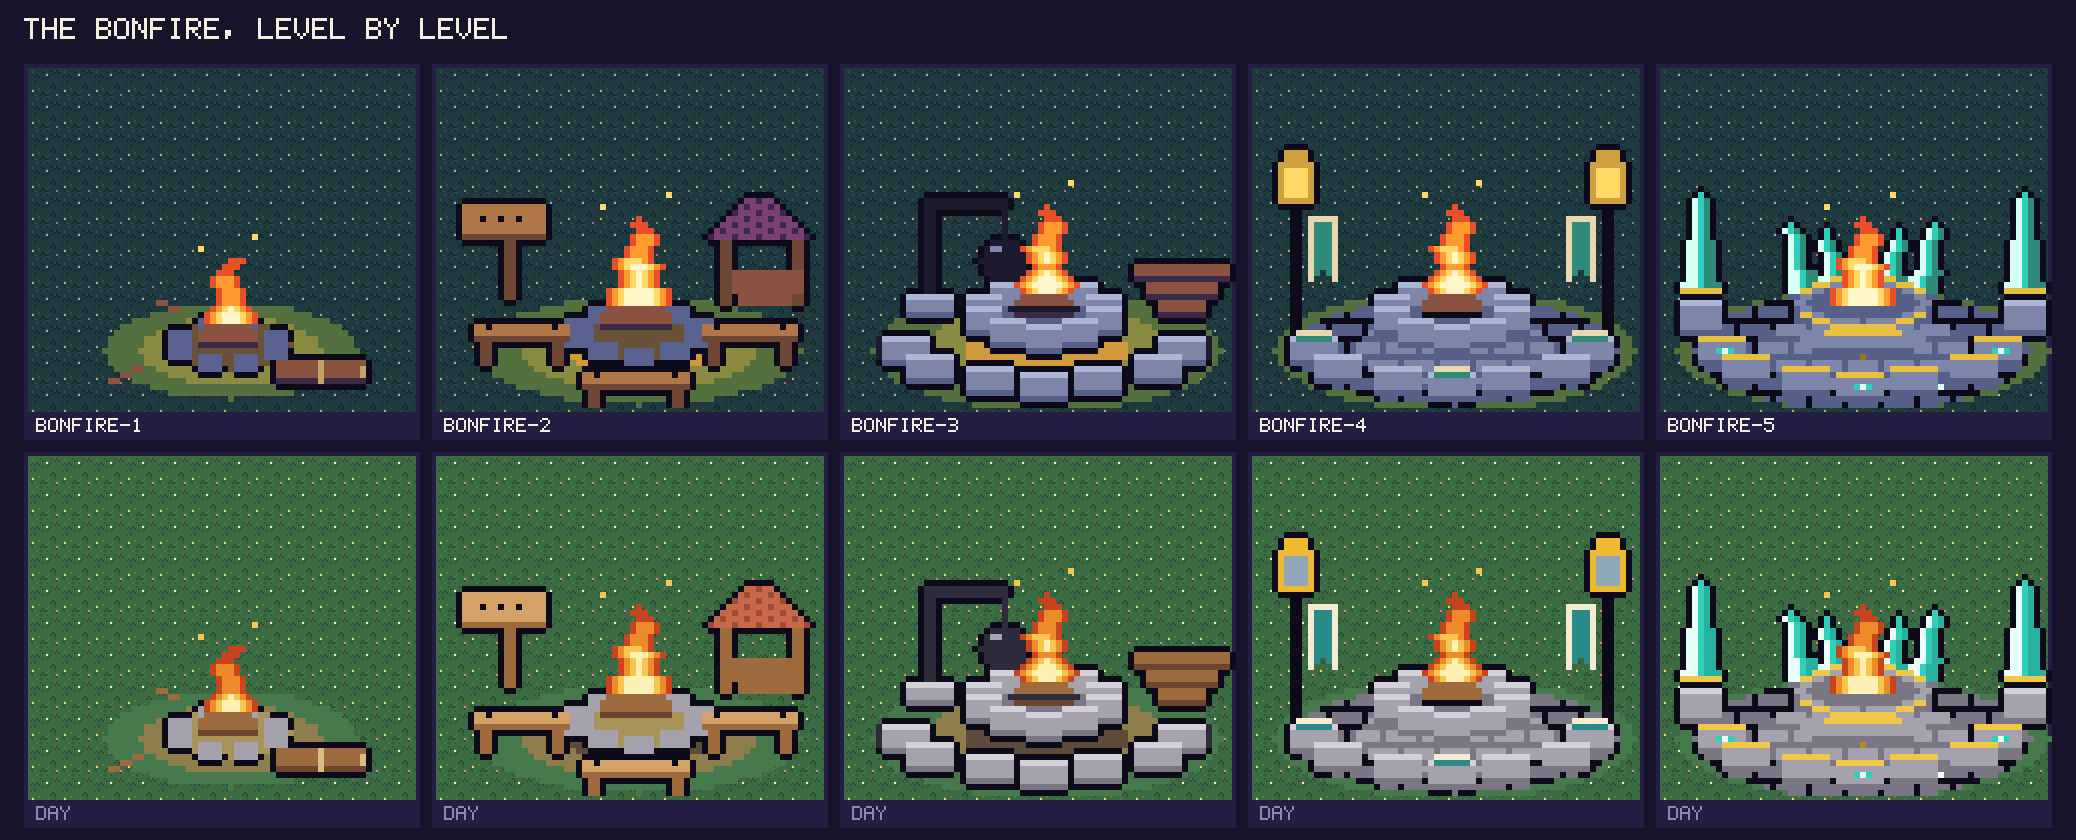
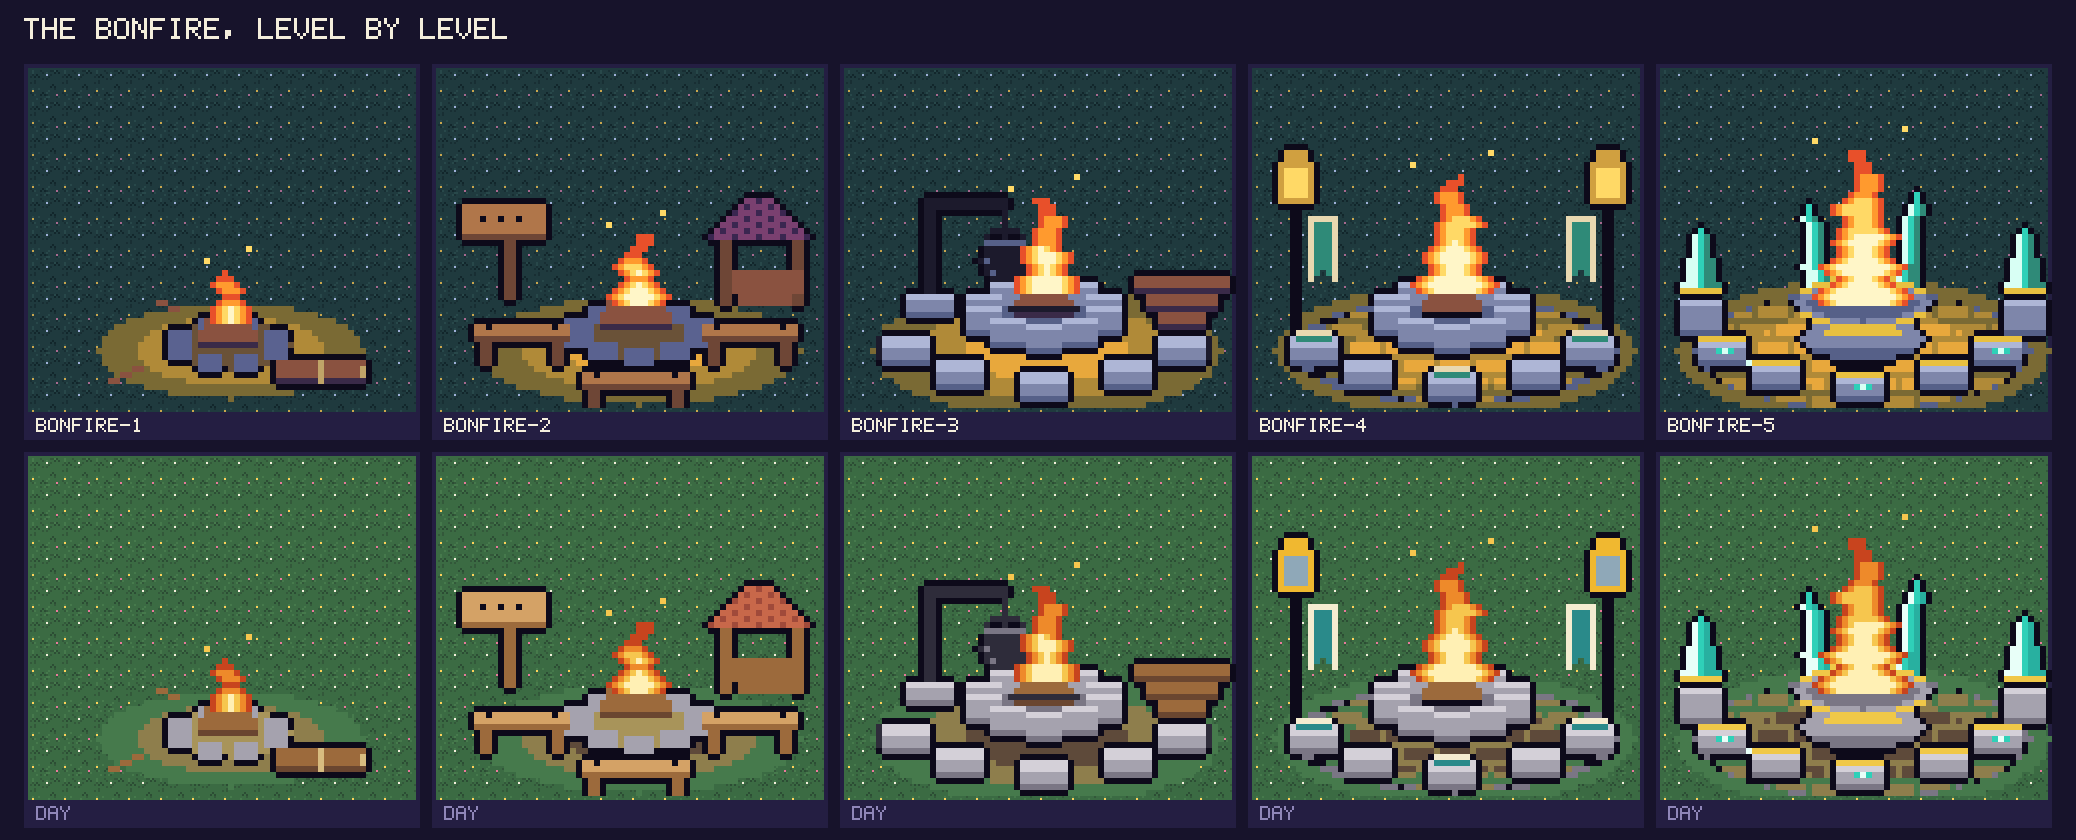
Bonfire levels: warm firelight rings, fire grows by level, separate slab seats
Claude-Session: https://claude.ai/code/session_01TqJ8tUAM4Muj4eb7wE4uc8

diff --git a/apps/activity/src/sprites/concepts/valley-levels-bonfire.ts b/apps/activity/src/sprites/concepts/valley-levels-bonfire.ts
@@ -22,7 +22,7 @@ type Colour = (x: number, y: number) => string;
 const GROUND = '.123';
 
 const GLOW = {
-  night: { '1': '#55703f', '2': '#8a8a40', '3': '#d09a3c' },
+  night: { '1': '#7a6a34', '2': '#b08a38', '3': '#e8a83c' },
   day: { '1': '#467a4c', '2': '#8e7e4c', '3': '#5e4a3a' },
 };
 const FIRE = {
@@ -156,7 +156,9 @@ function paving(g: Grid, cx: number, cy: number, rx: number, ry: number, lit: nu
       const off = Math.floor(y / 3) % 2 === 0 ? 0 : 3;
       const joint = y % 3 === 2 || (x + off) % 6 === 5;
       const near = ((x - cx) / lit) ** 2 + ((y - cy) / ((lit * ry) / rx)) ** 2 < 1;
-      if (near) return joint ? 'S' : 'T';
+      const hot = ((x - cx) / (lit * 0.7)) ** 2 + ((y - cy) / ((lit * 0.7 * ry) / rx)) ** 2 < 1;
+      if (hot) return joint ? '2' : '3';
+      if (near) return joint ? '1' : '2';
       return joint ? 'k' : 'S';
     },
     false,
@@ -173,14 +175,15 @@ function arcBench(
   top: (x: number, y: number) => string,
 ): void {
   const pts: Pt[] = [];
-  for (const deg of [20, 40, 70, 90, 110, 140, 160]) {
+  for (const deg of [160, 125, 90, 55, 20]) {
     const a = (deg * Math.PI) / 180;
     pts.push([Math.round(cx + rx * Math.cos(a)), Math.round(cy + ry * Math.sin(a))]);
   }
   pts.sort((a, b) => a[1] - b[1]);
+  // separate low slabs: a lit top, a darker front face, a shadowed foot (the ink outline is the shadow beneath)
   for (const [x, y] of pts) {
     paint(g, rectPts(x - 4, y - 2, 8, 5), (px, py) =>
-      py === y - 2 ? top(px, py) : py === y + 2 ? 'S' : 'T',
+      py === y - 2 ? top(px, py) : py === y - 1 ? 'L' : py === y + 2 ? 'S' : 'T',
     );
   }
 }
@@ -223,12 +226,12 @@ const none = { night: {}, day: {} };
 // ---- Level 1: Humble ----------------------------------------------------------------------------------------
 const L1 = build(
   (g) => {
-    glow(g, 32, 46, 21, 8);
+    glow(g, 32, 46, 22, 8);
     paint(g, ellPts(32, 45, 10, 4), 'e', false);
     const rock = (x: number, y: number): void => paint(g, rectPts(x - 2, y - 1, 4, 3), 't');
     ringItems(32, 45, 9, 3.5, 8, 'back', rock);
     fireLogs(g, 32, 41, 10);
-    flame(g, 32, 41, 11, 7);
+    flame(g, 32, 41, 9, 6);
     ringItems(32, 45, 9, 3.5, 8, 'front', rock);
     // the seat log, with a rope lashing and pale cut ends
     paint(g, rectPts(40, 48, 15, 4), (_x, y) => (y === 51 ? 'w' : 'v'));
@@ -279,7 +282,7 @@ const L2 = build(
     const rock = (x: number, y: number): void => paint(g, rectPts(x - 2, y - 1, 5, 3), 't');
     ringItems(32, 43, 11, 4, 10, 'back', rock);
     fireLogs(g, 32, 38, 12);
-    flame(g, 32, 38, 15, 9);
+    flame(g, 32, 38, 12, 8);
     ringItems(32, 43, 11, 4, 10, 'front', rock);
     // benches: left, right and front
     plankBench(g, 5, 42, 16);
@@ -305,12 +308,12 @@ function stonePit(g: Grid, fireTop: (g: Grid) => void): void {
 
 const L3 = build(
   (g) => {
-    glow(g, 32, 46, 29, 10);
+    glow(g, 32, 46, 29, 11);
     // firewood pile at the back right
     for (let r = 0; r < 3; r++) {
       for (let i = 0; i < 4 - r; i++) {
-        paint(g, rectPts(47 + i * 4 + r * 2, 32 + r * 3, 4, 3), (_x, y) =>
-          y === 34 + r * 3 ? 'w' : 'v',
+        paint(g, rectPts(47 + i * 4 + r * 2, 34 + r * 3, 4, 3), (_x, y) =>
+          y === 36 + r * 3 ? 'w' : 'v',
         );
       }
     }
@@ -320,11 +323,15 @@ const L3 = build(
     paint(g, rectPts(12, 21, 14, 2), 'i');
     for (let y = 23; y < 28; y++) put(g, 25, y, 'i');
     paint(g, ellPts(25, 31, 4, 3.5), 'i');
-    put(g, 23, 29, 'T');
-    put(g, 24, 29, 'T');
+    for (let x = 22; x <= 28; x++) put(g, x, 28, 'S');
+    put(g, 22, 31, 'S');
+    put(g, 23, 33, 'S');
+    // a bail handle over the pot
+    for (const x of [22, 28]) put(g, x, 27, 'i');
+    for (let x = 23; x <= 27; x++) put(g, x, 26, 'i');
     stonePit(g, (gg) => {
       fireLogs(gg, 32, 36, 10);
-      flame(gg, 32, 36, 15, 8);
+      flame(gg, 32, 36, 16, 9);
       // iron grate bar over the logs
       paint(gg, rectPts(26, 39, 12, 1), 'i', false);
     });
@@ -359,13 +366,13 @@ function lampPost(g: Grid, x: number): void {
 
 const L4 = build(
   (g) => {
-    glow(g, 32, 46, 30, 10);
-    paving(g, 32, 46, 27, 9, 17);
+    glow(g, 32, 46, 30, 11);
+    paving(g, 32, 46, 27, 9, 25);
     lampPost(g, 6);
     lampPost(g, 58);
     stonePit(g, (gg) => {
       fireLogs(gg, 32, 36, 10, 'k');
-      flame(gg, 32, 36, 15, 8);
+      flame(gg, 32, 36, 20, 11);
     });
     arcBench(g, 32, 43, 25, 9, () => 'L');
     // teal cushions with a cream edge on the three seats
@@ -403,13 +410,13 @@ function shard(g: Grid, x: number, by: number, h: number, w: number, lean: numbe
 function crystalPost(g: Grid, x: number): void {
   paint(g, rectPts(x - 3, 38, 7, 6), (_x, py) => (py === 38 ? 'L' : py === 43 ? 'S' : 'T'));
   paint(g, rectPts(x - 3, 36, 7, 1), 'g');
-  shard(g, x, 35, 16, 5, 0);
+  shard(g, x, 35, 10, 5, 0);
 }
 
 const L5 = build(
   (g) => {
-    glow(g, 32, 46, 31, 10);
-    paving(g, 32, 46, 28, 10, 18);
+    glow(g, 32, 46, 31, 12);
+    paving(g, 32, 46, 28, 10, 27);
     for (const [x, y] of [
       [12, 48],
       [20, 52],
@@ -422,10 +429,8 @@ const L5 = build(
     crystalPost(g, 5);
     crystalPost(g, 59);
     // the brazier: stone plinth, gold band, a bowl crowned with crystal
-    shard(g, 22, 36, 12, 4, -2);
-    shard(g, 42, 36, 12, 4, 2);
-    shard(g, 27, 34, 9, 3, -1);
-    shard(g, 37, 34, 9, 3, 1);
+    shard(g, 25, 36, 15, 4, -2);
+    shard(g, 39, 36, 17, 4, 2);
     paint(g, ellPts(32, 44, 10, 3.5), (_x, py) => (py > 45 ? 'S' : 'T'));
     paint(g, rectPts(26, 41, 13, 4), (_x, py) => (py === 41 ? 'L' : 'T'));
     paint(g, rectPts(26, 43, 13, 1), 'g', false);
@@ -436,8 +441,7 @@ const L5 = build(
       put(g, x, 38 + dy, 'g');
       put(g, x, 38 - dy, 'g');
     }
-    flame(g, 32, 38, 15, 9);
-    put(g, 32, 47, 'h');
+    flame(g, 32, 38, 26, 13);
     // gold-edged benches with crystal inlay
     arcBench(g, 32, 43, 25, 9, () => 'g');
     for (const [x, y] of [
@@ -457,7 +461,6 @@ const L5 = build(
       l: 'crystalLight',
       D: 'crystalShade',
       g: 'gold',
-      h: 'goldShade',
     }),
   ],
   none,
@@ -490,7 +493,7 @@ export const VALLEY_LEVELS_BONFIRE_CONCEPTS: ConceptSet = {
     'All five levels are 64x56 with the hearth at the same spot (fire centred on x 32) and the art on one base row; smaller levels leave the top and sides empty. Night is the main palette with the firelight in stepped rings on the ground; alts.day keeps the fire lit.',
     'Level 1 Humble: a small fire in a loose ring of fieldstones on packed earth, one log to sit on (rope lashing, pale cut ends) and two sticks. Seat: (47, 52).',
     'Level 2 Settled: a neater fire ring, two sawn plank benches and a front bench, a plank sign, and a wood store with the red-brown shingle roof. Seats: (13, 48), (51, 48), (32, 54).',
-    'Level 3 Stone: a pit of dressed grey stone, a curved bench of dressed stone blocks, black iron: a grate over the logs, a crane with a hanging cauldron, bands on the bench ends, and a firewood pile. Seats: (9, 49), (32, 55), (55, 49).',
+    'Level 3 Stone: a pit of dressed grey stone, an arc of five separate dressed-stone slab seats, black iron: a grate over the logs, a crane with a hanging cauldron, bands on the bench ends, and a firewood pile. Seats: (9, 49), (32, 55), (55, 49).',
     'Level 4 Valley: the stone pit on a paved floor lit by the fire, teal-and-cream cushions on the three seats, brass lamps on posts with teal banners (lamp glass lit at night, plain by day). Seats as level 3.',
     'Level 5 Crystal: a stone brazier with a gold band and gold rim, crowned with four crystal shards (the crystal glows by day too), crystal posts with gold caps, gold-edged benches with crystal inlay, crystal inlay in the paving. Seats as level 3. The 16-colour limit leaves no room for the level 4 pennants here; the crystal posts replace the lamps.',
   ],

diff --git a/docs/art/README.md b/docs/art/README.md
@@ -202,11 +202,11 @@ Status: **liked** means Misa approved the look; **draft** means he has not said 
 - **Status:** draft
 - **Requested:** 2026-11-09 (Misa): "The campfire could also get better, not just more decorative. Think from a humble campfire to a fire pit with cool stone benches and the sort. Each building can absolutely change building material as it upgrades in levels, and I'm thinking we might even want to tweak the earlier levels to be less elaborate... If you change materials, there needs to be a common motif between buildings of the same level... Think of how Clash of Clans brings a new look with each new town hall level."
 - **Source:** `apps/activity/src/sprites/concepts/valley-levels-bonfire.ts` (draw it with `pnpm art valley-levels-bonfire`)
-- **Sheet of:** `bd320d044c7a`
+- **Sheet of:** `f668f92c1e96`
 - All five levels are 64x56 with the hearth at the same spot (fire centred on x 32) and the art on one base row; smaller levels leave the top and sides empty. Night is the main palette with the firelight in stepped rings on the ground; alts.day keeps the fire lit.
 - Level 1 Humble: a small fire in a loose ring of fieldstones on packed earth, one log to sit on (rope lashing, pale cut ends) and two sticks. Seat: (47, 52).
 - Level 2 Settled: a neater fire ring, two sawn plank benches and a front bench, a plank sign, and a wood store with the red-brown shingle roof. Seats: (13, 48), (51, 48), (32, 54).
-- Level 3 Stone: a pit of dressed grey stone, a curved bench of dressed stone blocks, black iron: a grate over the logs, a crane with a hanging cauldron, bands on the bench ends, and a firewood pile. Seats: (9, 49), (32, 55), (55, 49).
+- Level 3 Stone: a pit of dressed grey stone, an arc of five separate dressed-stone slab seats, black iron: a grate over the logs, a crane with a hanging cauldron, bands on the bench ends, and a firewood pile. Seats: (9, 49), (32, 55), (55, 49).
 - Level 4 Valley: the stone pit on a paved floor lit by the fire, teal-and-cream cushions on the three seats, brass lamps on posts with teal banners (lamp glass lit at night, plain by day). Seats as level 3.
 - Level 5 Crystal: a stone brazier with a gold band and gold rim, crowned with four crystal shards (the crystal glows by day too), crystal posts with gold caps, gold-edged benches with crystal inlay, crystal inlay in the paving. Seats as level 3. The 16-colour limit leaves no room for the level 4 pennants here; the crystal posts replace the lamps.
 
